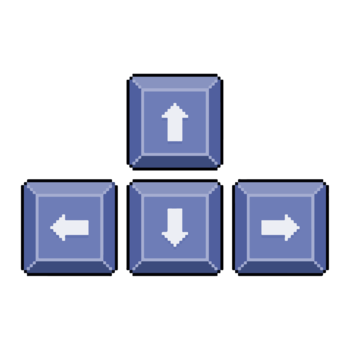
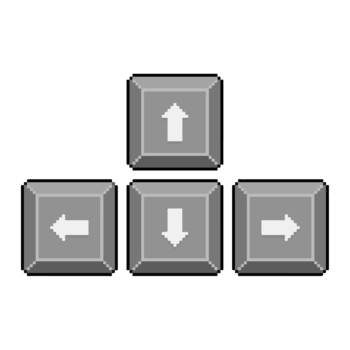
Ajustando ícones e intro

diff --git a/src/engine/player/playerSelectionSystem.js b/src/engine/player/playerSelectionSystem.js
@@ -1,14 +1,13 @@
 /**
  * Sistema de seleção de personagem
- * @param {Phaser.Scene} scene - A cena onde a seleção será exibida
- * @param {function} onCharacterSelected - Callback quando o personagem é selecionado
+ * @param {Phaser.Scene} scene
+ * @param {function} onCharacterSelected
  */
 export function setupCharacterSelection(scene, onCharacterSelected) {
     const { width, height } = scene.scale;
 
     scene.children.removeAll();
 
-    // === BACKGROUND DA CENA COM IMAGEM bg_intro ===
     const sceneBackground = scene.add.image(width / 2, height / 2, 'bg_intro')
         .setDisplaySize(width, height);
 
@@ -24,11 +23,10 @@ export function setupCharacterSelection(scene, onCharacterSelected) {
     // === BACKGROUND SIMPLES DA CAIXA ===
     const background = scene.add.graphics();
 
-    
     // === TÍTULO ===
     const title = scene.add.text(0, -boxHeight/2 + 50, 'ESCOLHA SEU PERSONAGEM!', {
         fontFamily: '"Silkscreen", "Courier New", monospace',
-        fontSize: '24px',
+        fontSize: '36px',
         color: '#ffffff',
         fontWeight: 'bold',
         align: 'center'
@@ -47,22 +45,26 @@ export function setupCharacterSelection(scene, onCharacterSelected) {
     
     charactersContainer.add([girlOption, boyOption]);
     
-    // === INSTRUÇÃO ATUALIZADA ===
-    const instruction = scene.add.text(0, boxHeight/2 - 40, 'Clique no personagem ou use as teclas para selecionar', {
+       // === INSTRUÇÃO COM IMAGENS ===
+    const instructionY = boxHeight/2 - 40;
+    
+    // Texto principal
+    const instructionText = scene.add.text(0, instructionY, 'Clique no personagem ou use as teclas para selecionar', {
         fontFamily: '"Silkscreen", "Courier New", monospace',
-        fontSize: '14px',
-        color: '#000000',
-        backgroundColor: '#ffffff',
+        fontSize: '18px',
+        color: '#ffffff',
         align: 'center',
         padding: { left: 8, right: 8, top: 4, bottom: 4 }
     }).setOrigin(0.5);
 
-    mainContainer.add([background, title, charactersContainer, instruction]);
+    mainContainer.add([background, title, charactersContainer, instructionText]);
     
     // === CONFIGURAR CONTROLES DE TECLADO ===
     scene.keys = scene.input.keyboard.addKeys({
         A: Phaser.Input.Keyboard.KeyCodes.A,
-        D: Phaser.Input.Keyboard.KeyCodes.D
+        D: Phaser.Input.Keyboard.KeyCodes.D,
+        LEFT: Phaser.Input.Keyboard.KeyCodes.LEFT,
+        RIGHT: Phaser.Input.Keyboard.KeyCodes.RIGHT
     });
 
     let characterSelected = false;
@@ -70,10 +72,10 @@ export function setupCharacterSelection(scene, onCharacterSelected) {
     const checkKeys = () => {
         if (characterSelected) return;
         
-        if (scene.keys.A.isDown) {
+        if (scene.keys.A.isDown || scene.keys.LEFT.isDown) {
             characterSelected = true;
             selectCharacter(scene, 'boy', onCharacterSelected);
-        } else if (scene.keys.D.isDown) {
+        } else if (scene.keys.D.isDown || scene.keys.RIGHT.isDown) {
             characterSelected = true;
             selectCharacter(scene, 'girl', onCharacterSelected);
         }
@@ -101,33 +103,54 @@ export function setupCharacterSelection(scene, onCharacterSelected) {
 /**
  * Cria uma opção de personagem individual com imagem estática
  */
-function createCharacterOption(scene, x, y, textureKey, keyInstruction, onClick) {
+function createCharacterOption(scene, x, y, textureKey, keyType, onClick) {
     const container = scene.add.container(x, y);
     
     // === CAIXA DO PERSONAGEM ===
     const optionWidth = 220;
     const optionHeight = 240;
     
-const background = scene.add.graphics();
-    background.fillStyle(0xffffff, 0.15);
+    const background = scene.add.graphics();
+    background.fillStyle(0xffffff, 0.4);
     background.fillRoundedRect(-optionWidth/2, -optionHeight/2, optionWidth, optionHeight, 12);
     background.lineStyle(1, 0xffffff, 0.3);
     background.strokeRoundedRect(-optionWidth/2, -optionHeight/2, optionWidth, optionHeight, 12);
     
     const sprite = scene.add.sprite(0, -10, textureKey)
-        .setDisplaySize(100, 160)
-        .setInteractive({ useHandCursor: true });
+        .setDisplaySize(100, 160);
 
-    // === INSTRUÇÃO DA TECLA ===
-    const keyText = scene.add.text(0, 90, keyInstruction, {
-        fontFamily: '"Silkscreen", "Courier New", monospace',
-        fontSize: '16px',
-        color: '#000000',
-        fontWeight: 'bold',
-        align: 'center',
-        backgroundColor: '#ffffff',
-        padding: { left: 8, right: 8, top: 4, bottom: 4 }
-    }).setOrigin(0.5);
+    // === CONTAINER PARA AS TECLAS ===
+    const keysContainer = scene.add.container(0, 90);
+    
+    if (keyType === 'TECLA A') {
+        const keyAImage = scene.add.image(-25, 0, 'button_a')
+            .setDisplaySize(35, 35);
+        
+        const orText = scene.add.text(5, 0, 'ou', {
+            fontFamily: '"Silkscreen", "Courier New", monospace',
+            fontSize: '16px',
+            color: '#ffffff'
+        }).setOrigin(0.5);
+        
+        const leftArrowImage = scene.add.image(35, 0, 'button_left_2')
+            .setDisplaySize(35, 35);
+            
+        keysContainer.add([keyAImage, orText, leftArrowImage]);
+    } else {
+        const keyDImage = scene.add.image(-25, 0, 'button_d')
+            .setDisplaySize(35, 35);
+        
+        const orText = scene.add.text(5, 0, 'ou', {
+            fontFamily: '"Silkscreen", "Courier New", monospace',
+            fontSize: '16px',
+            color: '#ffffff'
+        }).setOrigin(0.5);
+        
+        const rightArrowImage = scene.add.image(35, 0, 'button_right_2')
+            .setDisplaySize(35, 35);
+            
+        keysContainer.add([keyDImage, orText, rightArrowImage]);
+    }
 
     const border = scene.add.graphics();
     border.lineStyle(4, 0x000000, 0);
@@ -137,10 +160,17 @@ const background = scene.add.graphics();
     hoverOverlay.fillStyle(0x000000, 0);
     hoverOverlay.fillRoundedRect(-optionWidth/2, -optionHeight/2, optionWidth, optionHeight, 12);
     
-    container.add([background, sprite, keyText, border, hoverOverlay]);
+    container.add([background, sprite, keysContainer, border, hoverOverlay]);
     
-    // === EFEITOS DE HOVER E CLIQUE ===
-    sprite.on('pointerover', () => {
+    const hitArea = new Phaser.Geom.Rectangle(-optionWidth/2, -optionHeight/2, optionWidth, optionHeight);
+    
+    container.setInteractive({
+        hitArea: hitArea,
+        hitAreaCallback: Phaser.Geom.Rectangle.Contains,
+        useHandCursor: true
+    });
+    
+    const handlePointerOver = () => {
         scene.tweens.add({
             targets: [border, hoverOverlay],
             alpha: 0.3,
@@ -154,9 +184,9 @@ const background = scene.add.graphics();
             duration: 200,
             ease: 'Back.easeOut'
         });
-    });
+    };
     
-    sprite.on('pointerout', () => {
+    const handlePointerOut = () => {
         scene.tweens.add({
             targets: [border, hoverOverlay],
             alpha: 0,
@@ -170,14 +200,22 @@ const background = scene.add.graphics();
             duration: 200,
             ease: 'Back.easeOut'
         });
-    });
+    };
     
-    // === EVENTO DE CLIQUE ===
-    sprite.on('pointerdown', () => {
+    const handlePointerDown = () => {
         if (onClick) {
             onClick();
         }
-    });
+    };
+    
+    container.on('pointerover', handlePointerOver);
+    container.on('pointerout', handlePointerOut);
+    container.on('pointerdown', handlePointerDown);
+    
+    sprite.setInteractive({ useHandCursor: true });
+    sprite.on('pointerover', handlePointerOver);
+    sprite.on('pointerout', handlePointerOut);
+    sprite.on('pointerdown', handlePointerDown);
     
     return container;
 }

diff --git a/src/engine/intro/introSystem.js b/src/engine/intro/introSystem.js
@@ -78,7 +78,7 @@ export class IntroSystem {
       "ou clique na tela para continuar",
       width / 2,
       height - 80,
-      "button_action",
+      "button_action_2",
       0.15
     );
 
@@ -114,8 +114,8 @@ export class IntroSystem {
       .setFilter(Phaser.Textures.FilterMode.NEAREST);
 
     this.dialogBox = this.scene.add
-      .rectangle(width / 2, height - 230, width - 100, 200, 0xffffff, 0.9)
-      .setStrokeStyle(2, 0x000000)
+      .rectangle(width / 2, height - 230, width - 100, 200, 0x000000, 0.7)
+      .setStrokeStyle(3, 0xffffff)
       .setDepth(1);
 
     this.renderCurrentInstruction(width, height);
@@ -125,7 +125,7 @@ export class IntroSystem {
       "ou clique na tela para continuar",
       width / 2,
       height - 80,
-      "button_action",
+      "button_action_2",
       0.15
     );
 
@@ -168,7 +168,7 @@ export class IntroSystem {
         .text(width / 2, height - 230, current, {
           fontFamily: '"Silkscreen", monospace',
           fontSize: "18px",
-          color: "#000000",
+          color: "#ffffff",
           wordWrap: { width: width - 150 },
           align: "center",
           lineSpacing: 10,
@@ -199,7 +199,7 @@ export class IntroSystem {
         "ou clique na tela para continuar",
         width / 2,
         height - 80,
-        "button_action",
+        "button_action_2",
         0.15
       );
 
@@ -291,7 +291,7 @@ export class IntroSystem {
         "ou clique na tela para continuar",
         width / 2,
         height - 80,
-        "button_action",
+        "button_action_2",
         0.15
       );
 
@@ -366,7 +366,7 @@ export class IntroSystem {
       .text(width / 2, this.dialogBox.height - 50, "USE AS TECLAS", {
         fontFamily: '"Silkscreen", monospace',
         fontSize: "22px",
-        color: "#000000",
+        color: "#ffffff",
       })
       .setOrigin(0.5)
       .setDepth(2);
@@ -384,13 +384,13 @@ export class IntroSystem {
       .text(width / 2 - 150, height - 160, "para se movimentar", {
         fontFamily: '"Silkscreen", monospace',
         fontSize: "16px",
-        color: "#000000",
+        color: "#ffffff",
       })
       .setOrigin(0.5)
       .setDepth(2);
 
     const keyE = this.scene.add
-      .image(width / 2 + 180, height - 230, "button_action")
+      .image(width / 2 + 180, height - 230, "button_action_2")
       .setScale(0.2)
       .setDepth(2);
 
@@ -398,7 +398,7 @@ export class IntroSystem {
       .text(width / 2 + 180, height - 160, "para interagir", {
         fontFamily: '"Silkscreen", monospace',
         fontSize: "16px",
-        color: "#000000",
+        color: "#ffffff",
       })
       .setOrigin(0.5)
       .setDepth(2);

diff --git a/src/core/GameScene.js b/src/core/GameScene.js
@@ -170,6 +170,11 @@ export default class GameScene extends Phaser.Scene {
     this.load.image("arrow_keys", "./assets/images/arrow_keys.png");
     this.load.image("wasd_keys", "./assets/images/wasd_keys.png");
     this.load.image("back_arrow_left", "./assets/images/seta-esquerda.png");
+    this.load.image("button_action_2", "./assets/images/button-action-2.png");
+    this.load.image("button_left_2", "./assets/images/button-left-2.png");
+    this.load.image("button_right_2", "./assets/images/button-right-2.png");
+    this.load.image("button_a", "./assets/images/button-a.png");
+    this.load.image("button_d", "./assets/images/button-d.png");
 
     this.load.image("icon_alert", "./assets/images/icon_alert.png");
 
